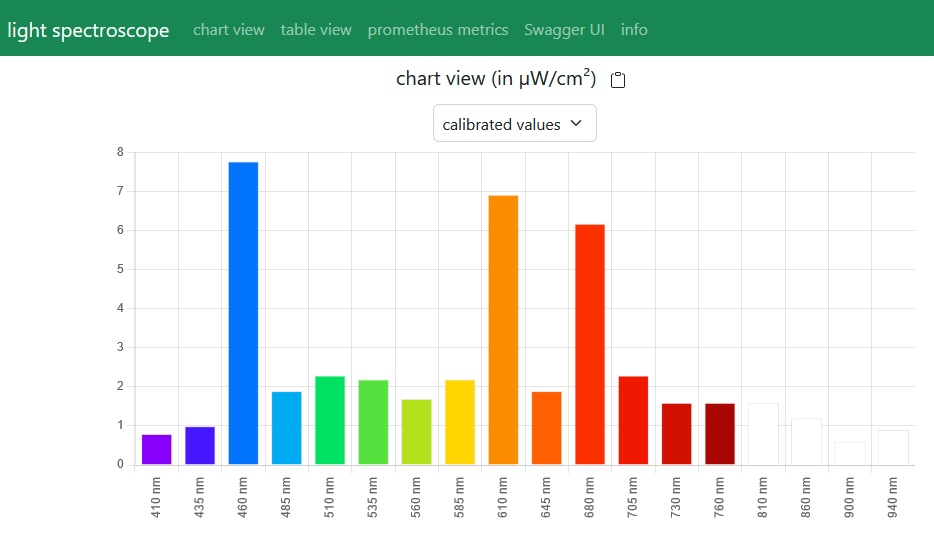
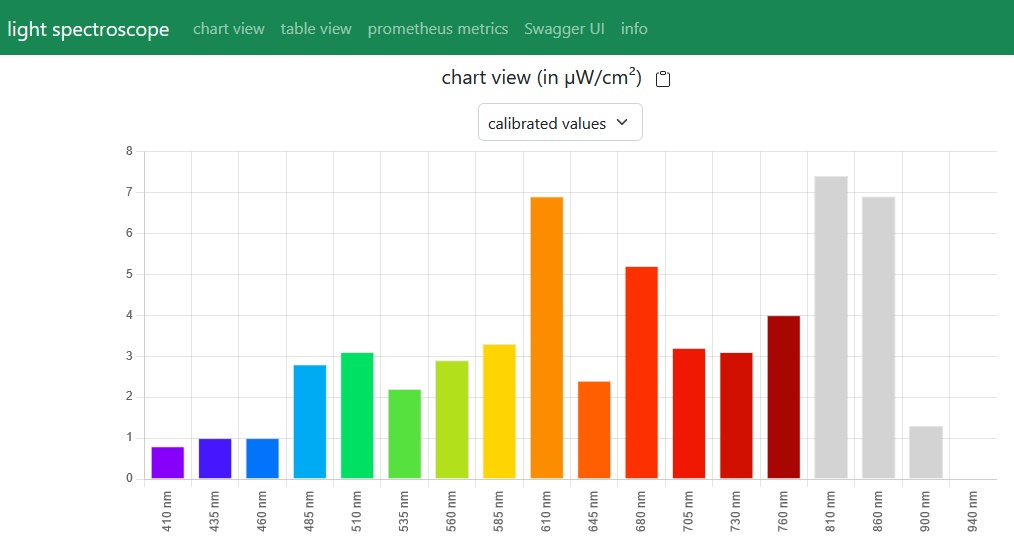
fixed background color of wave lengths not visible for humans

Changed region(s): [[0.1242, 0.2677, 0.9625, 0.9814], [0.0, 0.0297, 1.0, 0.2677], [0.5278, 0.3569, 0.5589, 0.3866]]

diff --git a/src/client/ChartTab.js b/src/client/ChartTab.js
@@ -6,6 +6,7 @@ spectroscope.client.ChartTab = function ChartTab(bus) {
 
    const CART_CANVAS_CSS_SELECTOR = '#chartTab #chartCanvas';
    const VALUE_TYPE_CSS_SELECTOR  = '#chartTab #valuesTypeToDisplay';
+   const LIGHT_GREY               = '#D3D3D3';
 
    const BACKGROUND_COLORS        = {
       '410nm': '#8700FA',
@@ -52,7 +53,7 @@ spectroscope.client.ChartTab = function ChartTab(bus) {
          return [];
       }
 
-      return waveLengthNames.map(waveLengthName => BACKGROUND_COLORS[waveLengthName] ?? '#FFFFFF');
+      return waveLengthNames.map(waveLengthName => BACKGROUND_COLORS[waveLengthName] ?? LIGHT_GREY);
    };
 
    var initializeUi = function initializeUi() {
